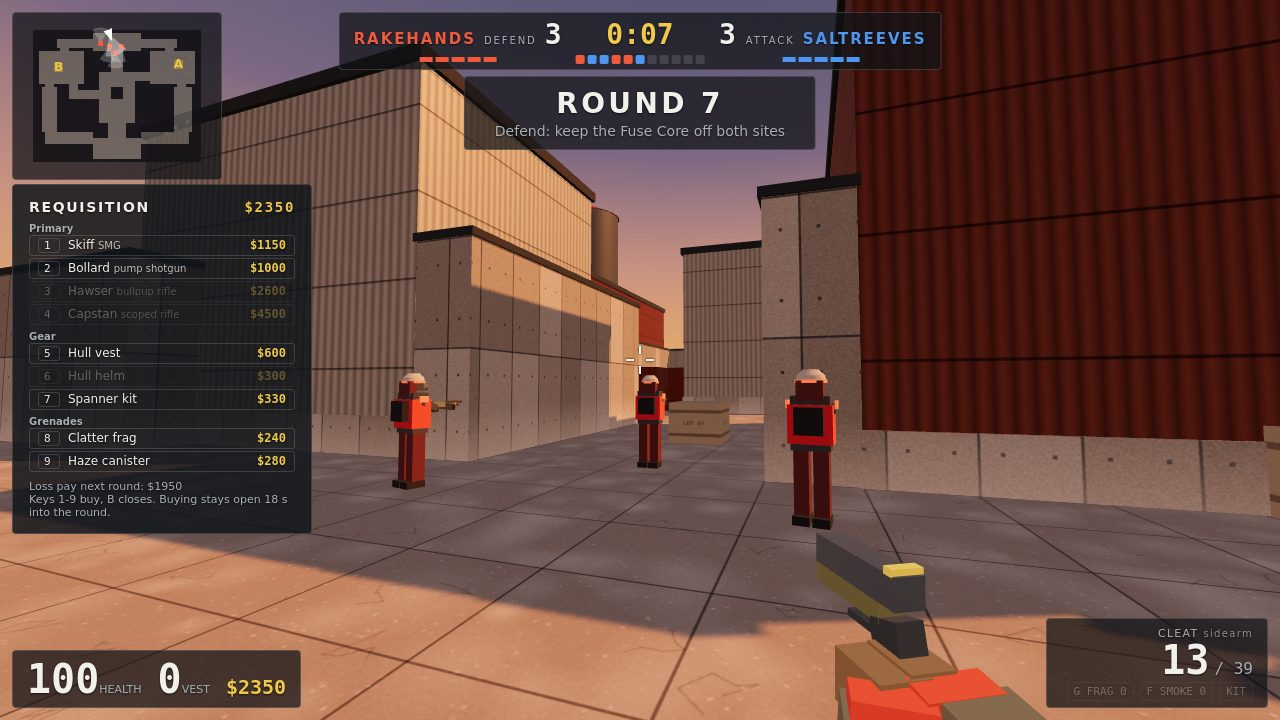
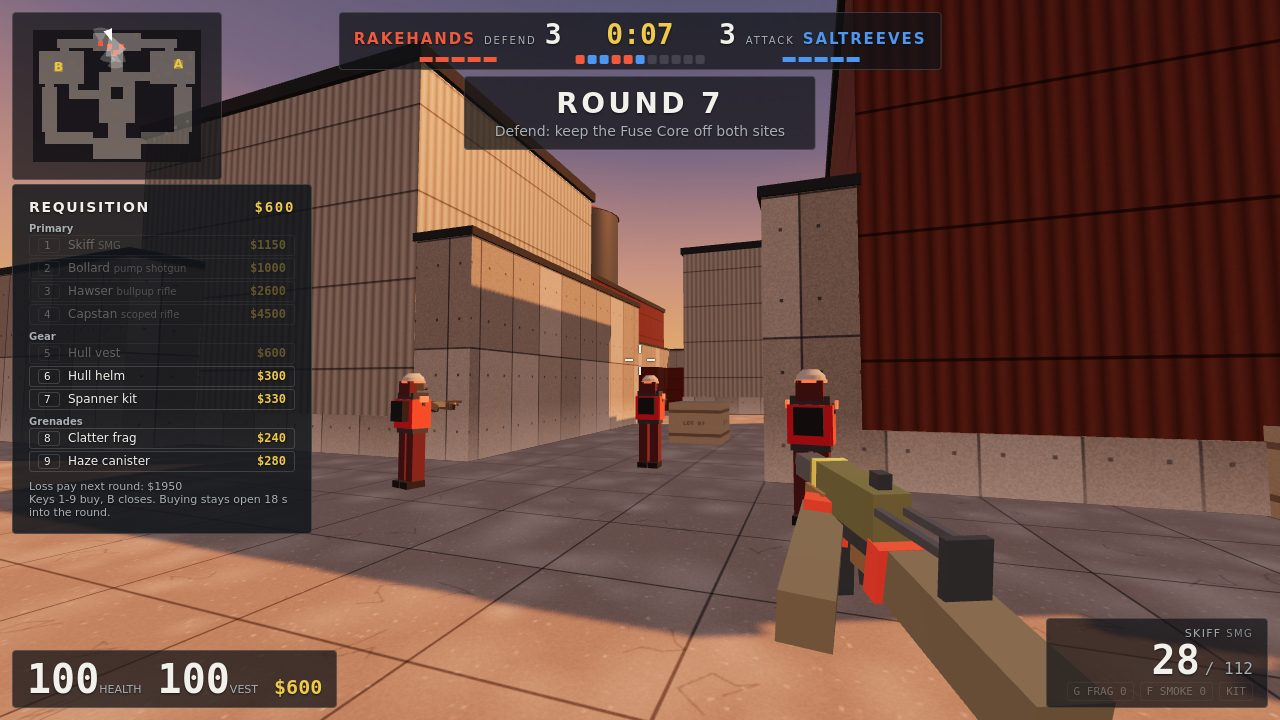
Shot 2: a purchase lands in frame, through the game's own buy()
The player buys a vest and a Skiff in buy time (economy.js buy(), as the queued menu order does):
$600 in the header and the HUD, 100 VEST, the Skiff up in hand; every dimmed row is owned or too
dear, the helm and kit are lit. The scene renders twice before its frames so the gun's sway from
the camera's jump settles. tools/ only. Fresh screenshots.

diff --git a/tools/stage.js b/tools/stage.js
@@ -7,6 +7,7 @@ import { DT, WEAPONS } from './src/sim/config.js';
 import { giveWeapon, eyeOf, heightOf } from './src/sim/actors.js';
 import { createBrain, think } from './src/sim/bots.js';
 import { yawTo } from './src/sim/util.js';
+import { buy } from './src/sim/economy.js';
 import { EV, emit } from './src/sim/events.js';
 import { radio } from './src/sim/coach.js';
 
@@ -28,10 +29,15 @@ const SCENES = {
       if (i >= 20) s.aim('f1', 'waist'); // low on the torso: the marker clears his muzzle flash
       s.p.cmd.fire = i === 12 || i === 31;
     } },
-  // Buy time in the defenders' yard, the low sun across the cladding, teammates armed differently.
-  2: { side: 1, round: 7, phase: 'freeze', ticks: 12, buy: true, money: 2350, bare: true,
+  // Buy time in the defenders' yard, the low sun across the cladding, teammates armed differently; the
+  // player buys a vest and a Skiff through the menu's own buy() and has the SMG up by the frame.
+  2: { side: 1, round: 7, phase: 'freeze', ticks: 44, buy: true, money: 2350, bare: true,
     cast: [['p', 25, 1, 27, 8], ['m0', 25, 5, 24, 12, 'skiff'], ['m1', 29, 5, 28, 9, 'bollard'], ['m2', 27, 7, 27, 12, 'hawser']],
-    script(i, s) { s.aim(null, 0.05, 27.5, 8); } },
+    script(i, s) {
+      if (!i) for (const id of ['vest', 'skiff']) buy(s.ctx.state, s.p, { id });
+      s.aim(null, 0.05, 27.5, 8);
+      if (i === 40) for (let k = 0; k < 2; k++) s.ctx.view.render(1, 1, s.ctx.input.look); // settle the gun's sway from the jump in look
+    } },
   // Arming on B: a teammate arms the Fuse Core on the pad while the player covers from behind; the smoke
   // closes Boiler Gate 12 m out, a Saltreeve works round its edge, Skerry has him spotted.
   3: { side: 0, round: 4, clock: 97, core: 'm0', hide: ['hint'], ticks: 40, smoke: [10.5, 6.6],
